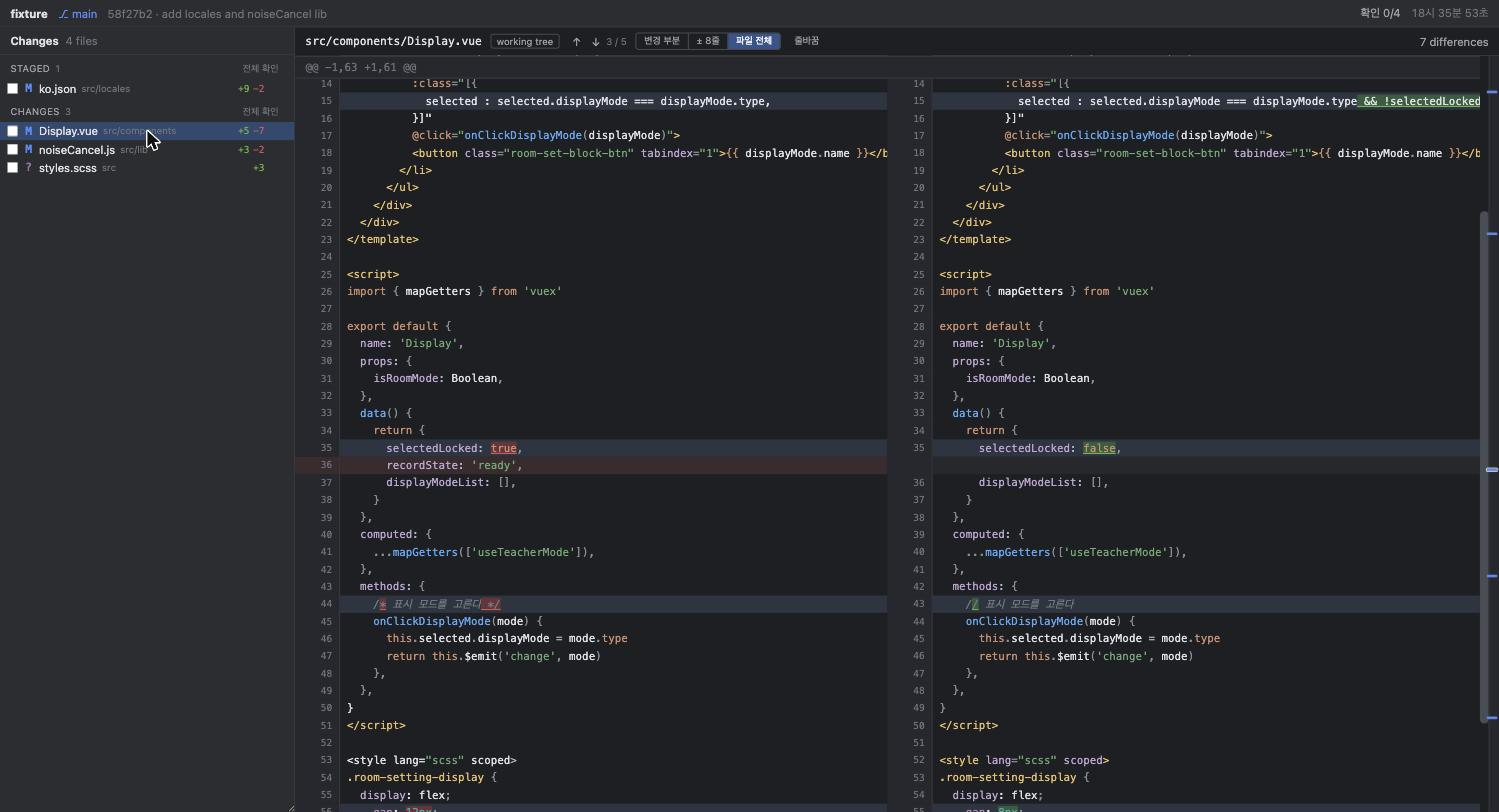
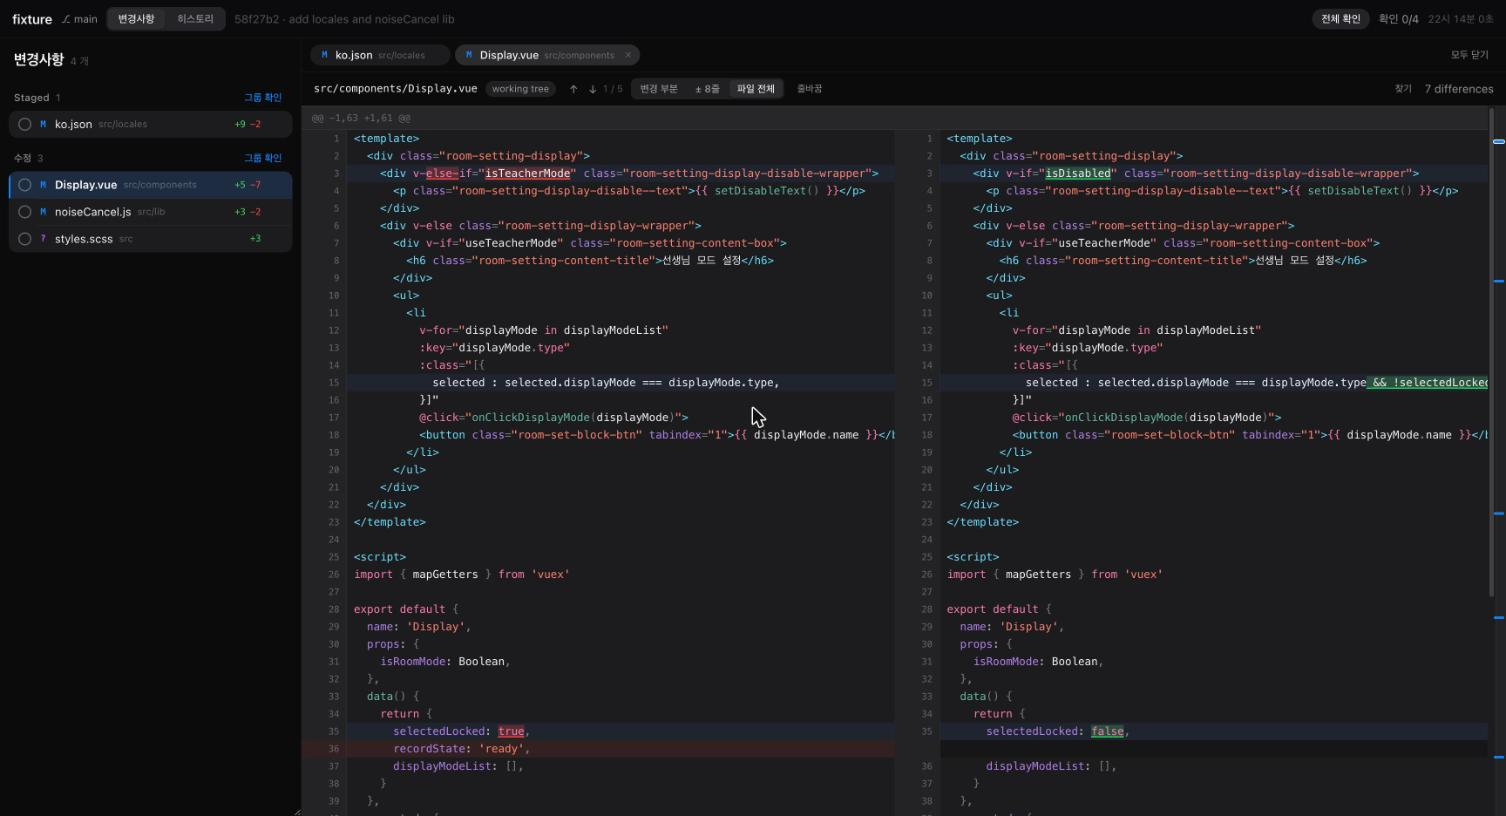
README 스크린샷을 새 UI로 전부 교체
옛 팔레트로 찍힌 7장이 남아 있어 문서가 지금 화면과 달랐다. 히스토리·검색·
기준점·코멘트·위험 신호·문서 탭·파일 전체를 다시 찍었고, 브랜치 목록은
커밋 검색과 한 장에 담기지 않아 search-branch.jpg로 분리했다.

diff --git a/README.md b/README.md
@@ -199,7 +199,7 @@ HEAD    58f27b2 add locales and noiseCancel lib · 7 minutes ago
 
 #### 브랜치 선택 · 검색
 
-![브랜치 검색과 커밋 검색](docs/images/search-view.jpg)
+![브랜치 목록 — 열면 바로 타이핑해서 걸러낸다](docs/images/search-branch.jpg)
 
 오른쪽 위 `⎇ 전체 브랜치` 를 누르면 브랜치 목록이 열린다. 열리면 바로 타이핑할 수
 있어서, 브랜치가 많아도 이름 몇 자로 찾는다. 하나만 남았을 때 `Enter`로 고른다.
@@ -211,6 +211,8 @@ HEAD    58f27b2 add locales and noiseCancel lib · 7 minutes ago
 수도 있다.
 
 #### 커밋 검색
+
+![커밋 검색 — 코드 내용으로 찾은 결과](docs/images/search-view.jpg)
 
 검색 대상을 골라서 찾는다.
 
